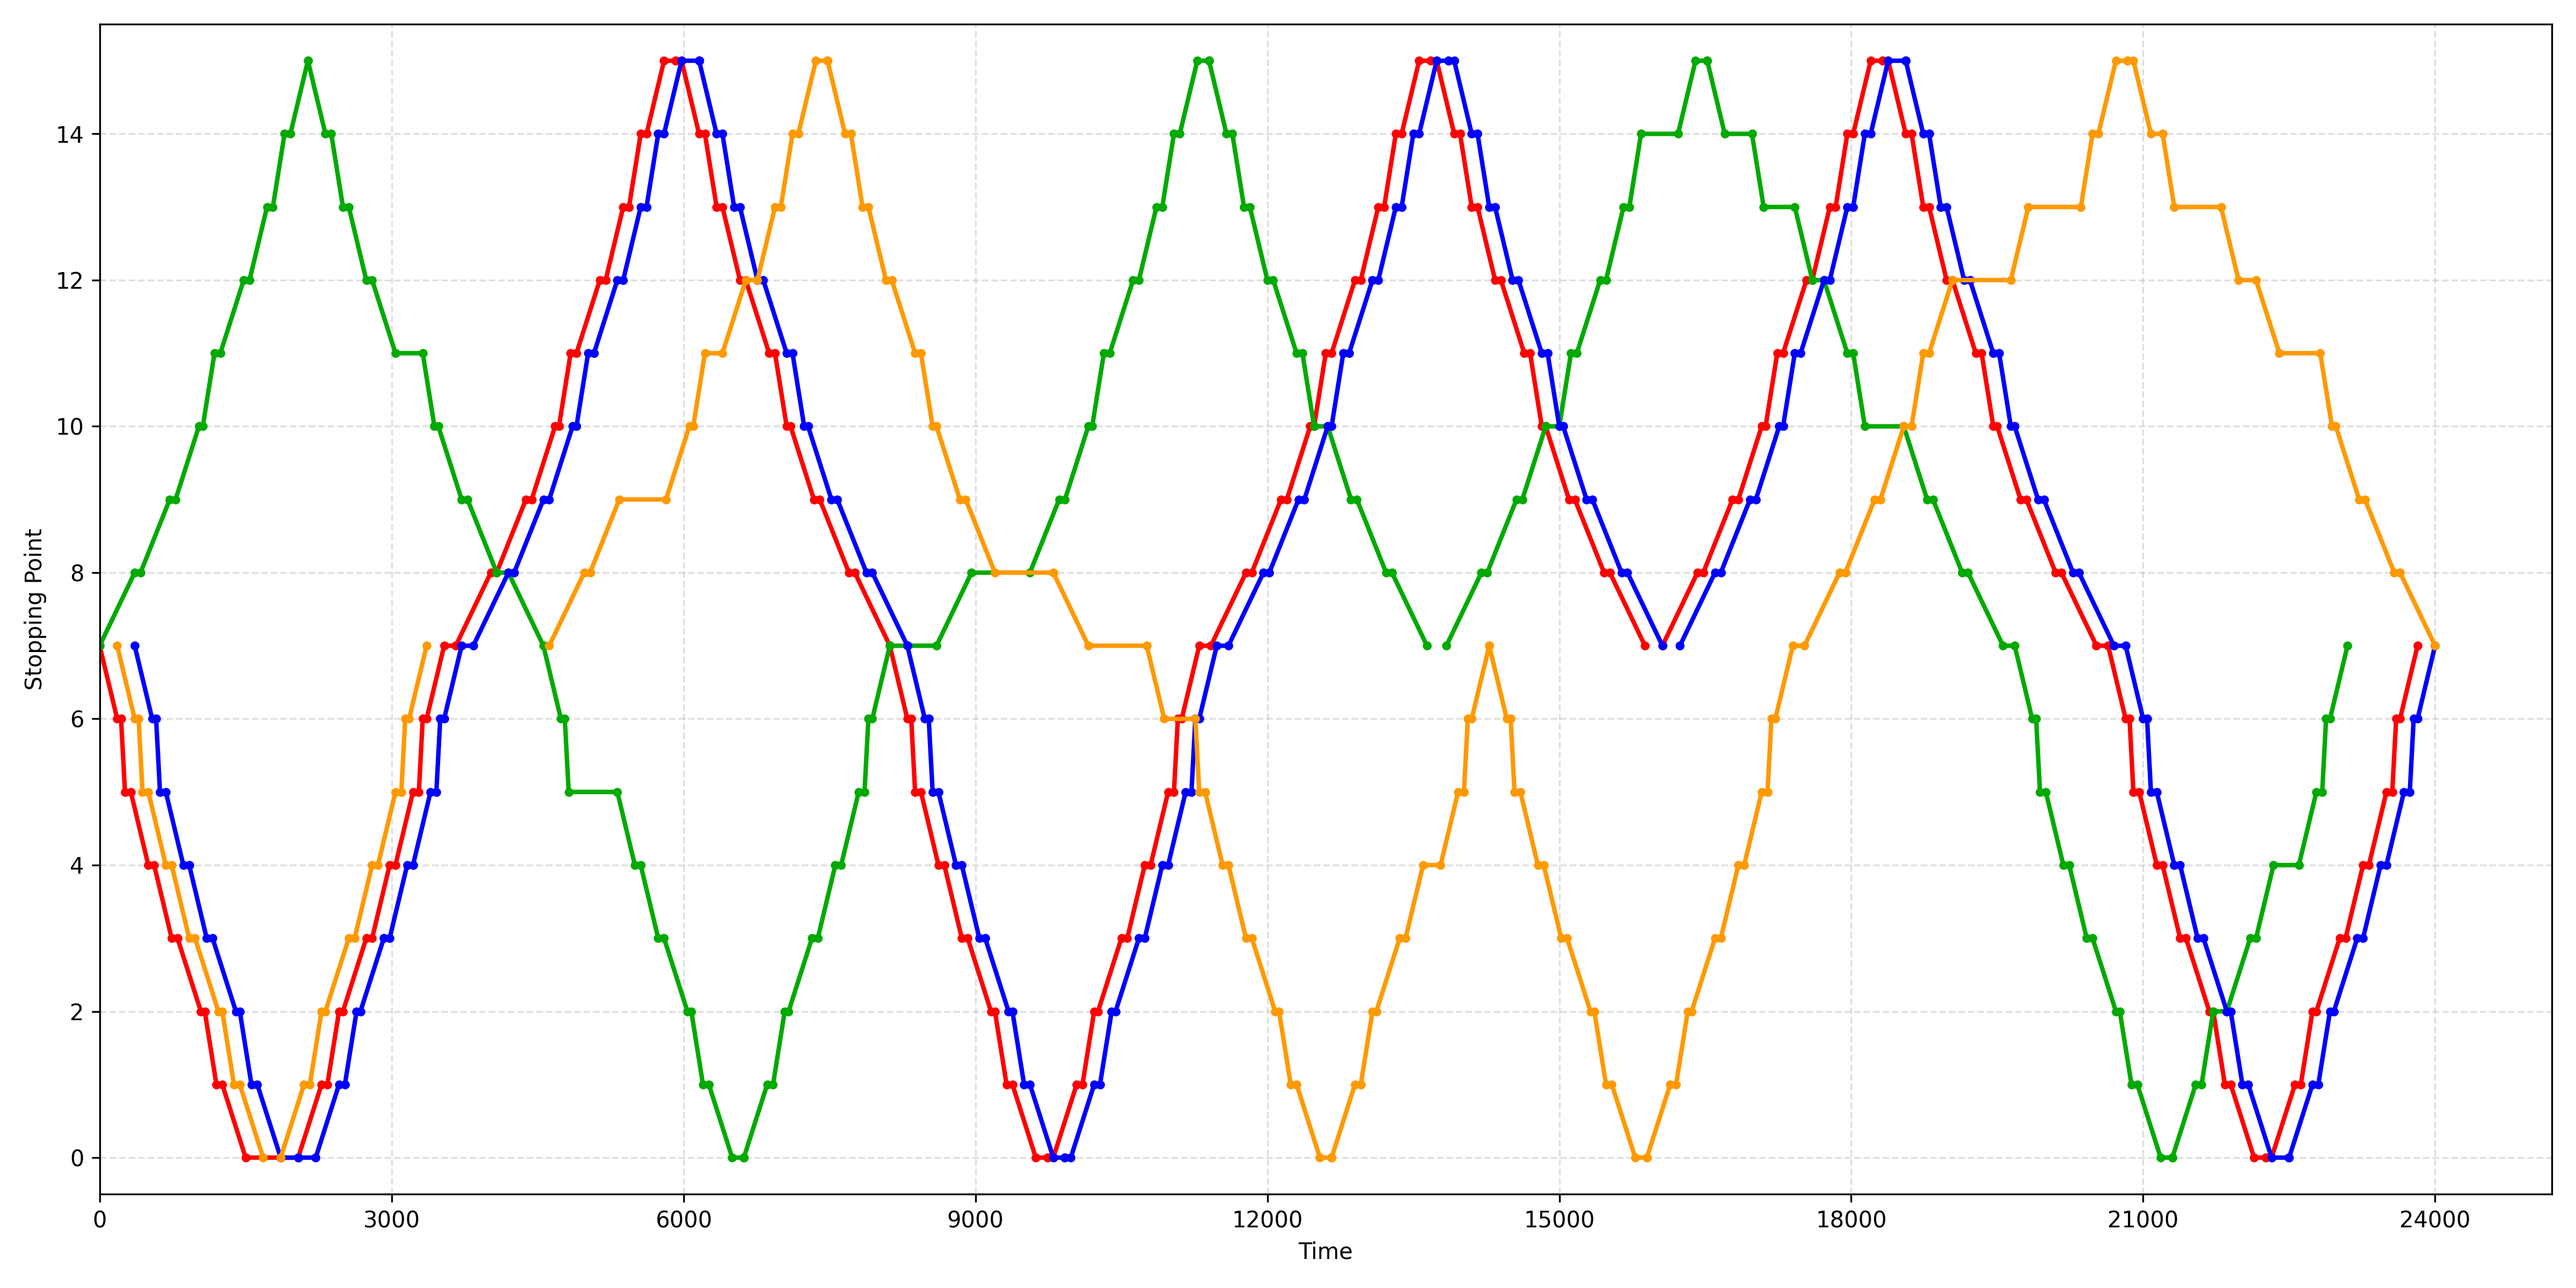
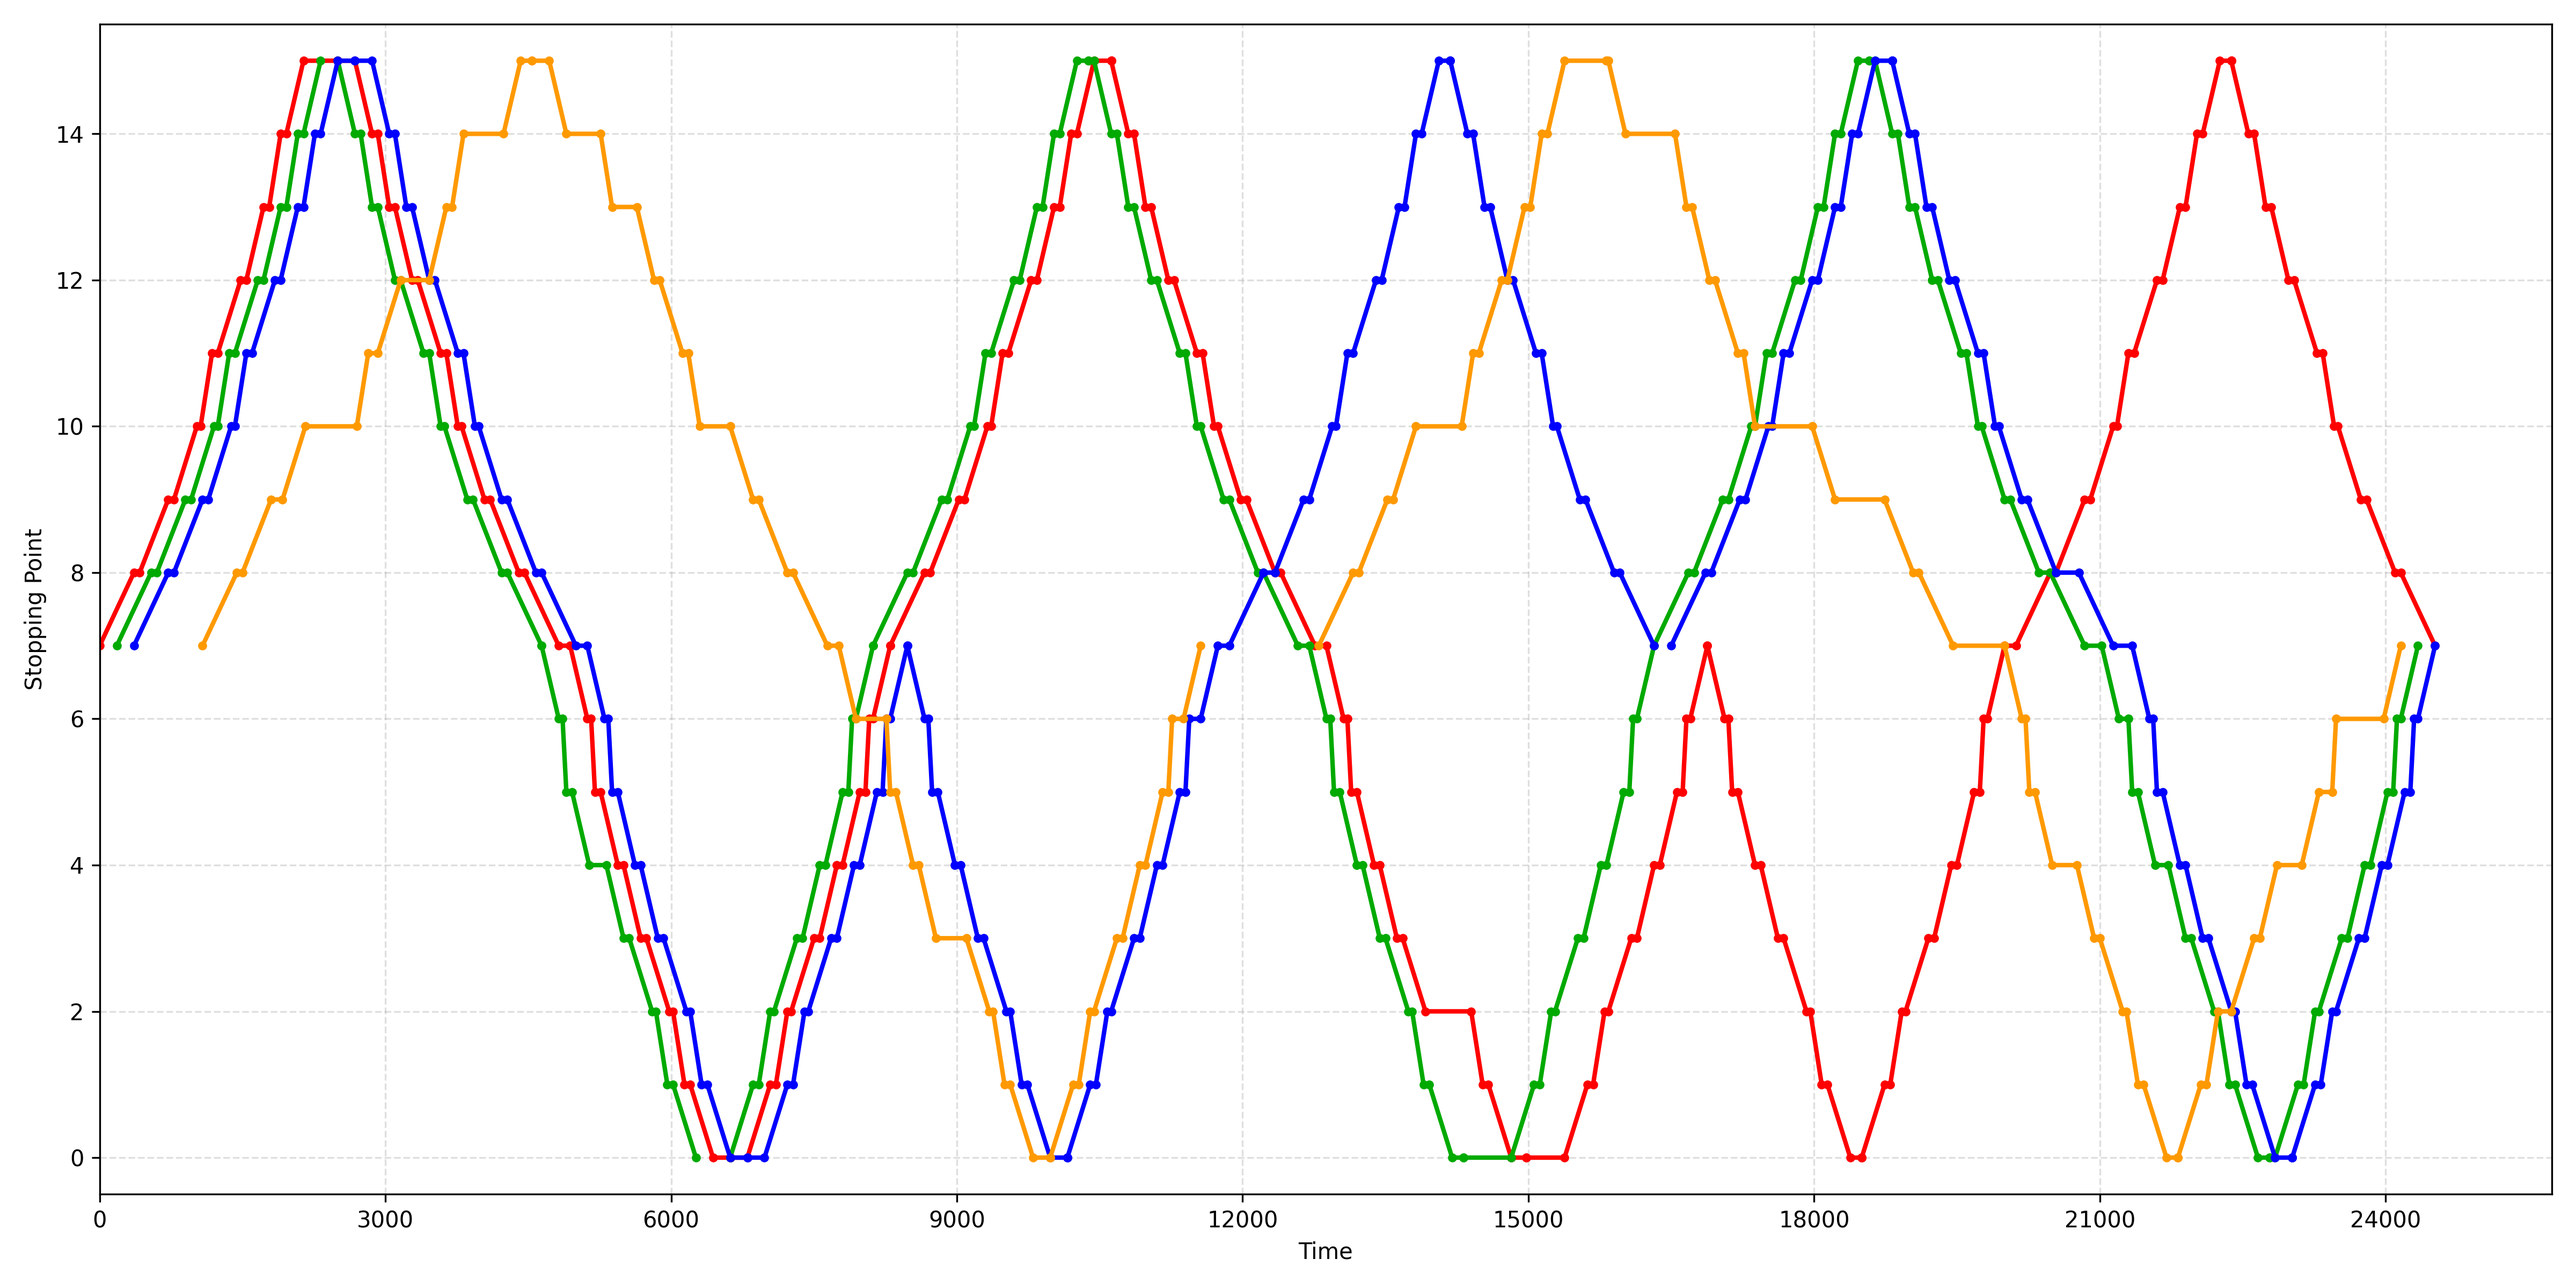
more test

diff --git a/python/model.py b/python/model.py
@@ -1,4 +1,4 @@
-from mip import Model, xsum, BINARY, minimize, OptimizationStatus, GUROBI
+from mip import Model, xsum, BINARY, minimize, OptimizationStatus, GUROBI, SearchEmphasis
 from solution import Solution
 import os
 import copy
@@ -653,10 +653,6 @@ class ModelTrainTimetabling:
     def execute_solver_for_full_model(self):
         # setting parameters
         self.model.threads = self.nb_threads
-
-        # if self.solver == "HiGHS":
-        #     self.model.integer_tol = 1e-10
-        #     self.model.preprocess = 0
 
         status = self.model.optimize(max_seconds=self.time_limit)
         if status in [OptimizationStatus.INFEASIBLE, OptimizationStatus.NO_SOLUTION_FOUND]:

diff --git a/python/main.py b/python/main.py
@@ -92,6 +92,7 @@ def main():
             start_time = time.time()
             model = ModelTrainTimetabling(data, threads, 21600, 21600, solver)
             model.initialize()
+            # model.model.write(str(log_path.parent / "model.lp"))
             model.execute_solver_for_full_model()
             end_time = time.time()
             total_time = end_time - start_time
